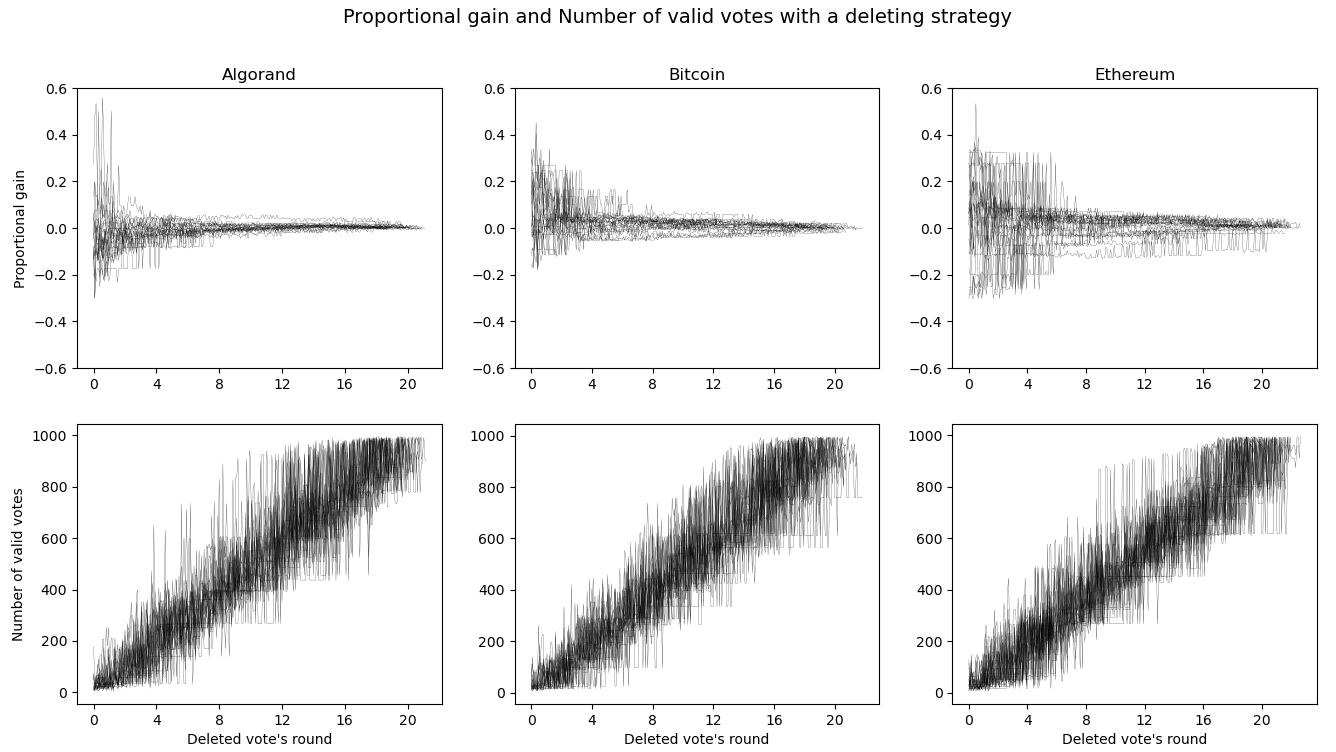
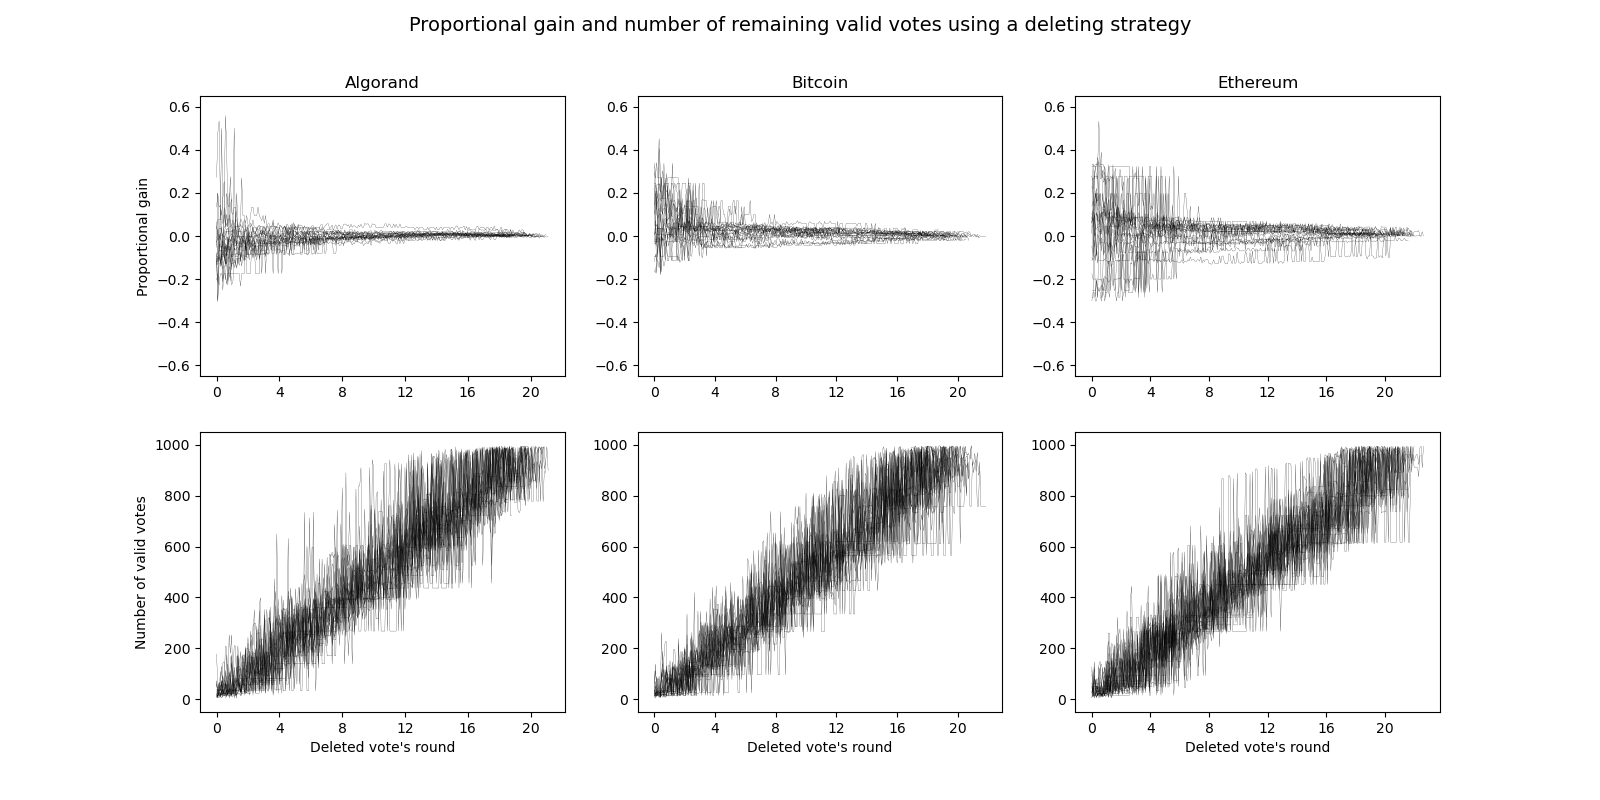
adding deleter/rejecter plots

diff --git a/charts/plotters/del-plotter.py b/charts/plotters/del-plotter.py
@@ -37,10 +37,15 @@ axes[1,0].set_xticklabels(xlabels)
 axes[1,1].set_xticklabels(xlabels)
 axes[1,2].set_xticklabels(xlabels)
 
-# set y limit
-axes[0,0].set_ylim([-0.6, 0.6])
-axes[0,1].set_ylim([-0.6, 0.6])
-axes[0,2].set_ylim([-0.6, 0.6])
+# set y ranges
+prop_ylim = [ -0.65, 0.65 ]
+vote_ylim = [ -50, 1050 ]
+axes[0,0].set_ylim(prop_ylim)
+axes[0,1].set_ylim(prop_ylim)
+axes[0,2].set_ylim(prop_ylim)
+axes[1,0].set_ylim(vote_ylim)
+axes[1,1].set_ylim(vote_ylim)
+axes[1,2].set_ylim(vote_ylim)
 
 # set title
 axes[0,0].set_title("Algorand")
@@ -54,6 +59,6 @@ axes[1,0].set_xlabel("Deleted vote's round")
 axes[1,1].set_xlabel("Deleted vote's round")
 axes[1,2].set_xlabel("Deleted vote's round")
 
-fig.suptitle("Proportional gain and Number of valid votes with a deleting strategy", fontsize=14)
+fig.suptitle("Proportional gain and number of remaining valid votes using a deleting strategy", fontsize=14)
 
 plt.show()

diff --git a/charts/plotters/rej-plotter.py b/charts/plotters/rej-plotter.py
@@ -33,6 +33,16 @@ axes[0,0].set_title("Algorand")
 axes[0,1].set_title("Bitcoin")
 axes[0,2].set_title("Ethereum")
 
+# set y ranges
+prop_ylim = [ -0.02, 0.32 ]
+vote_ylim = [ -50, 1050 ]
+axes[0,0].set_ylim(prop_ylim)
+axes[0,1].set_ylim(prop_ylim)
+axes[0,2].set_ylim(prop_ylim)
+axes[1,0].set_ylim(vote_ylim)
+axes[1,1].set_ylim(vote_ylim)
+axes[1,2].set_ylim(vote_ylim)
+
 # set labels
 axes[0,0].set_ylabel("Proportional gain")
 axes[1,0].set_ylabel("Number of valid votes")
@@ -40,6 +50,6 @@ axes[1,0].set_xlabel("Number of dishonest managers")
 axes[1,1].set_xlabel("Number of dishonest managers")
 axes[1,2].set_xlabel("Number of dishonest managers")
 
-fig.suptitle("Proportional gain and Number of valid votes with a rejecting strategy", fontsize=14)
+fig.suptitle("Proportional gain and number of remaining valid votes using a deleting strategy", fontsize=14)
 
 plt.show()
